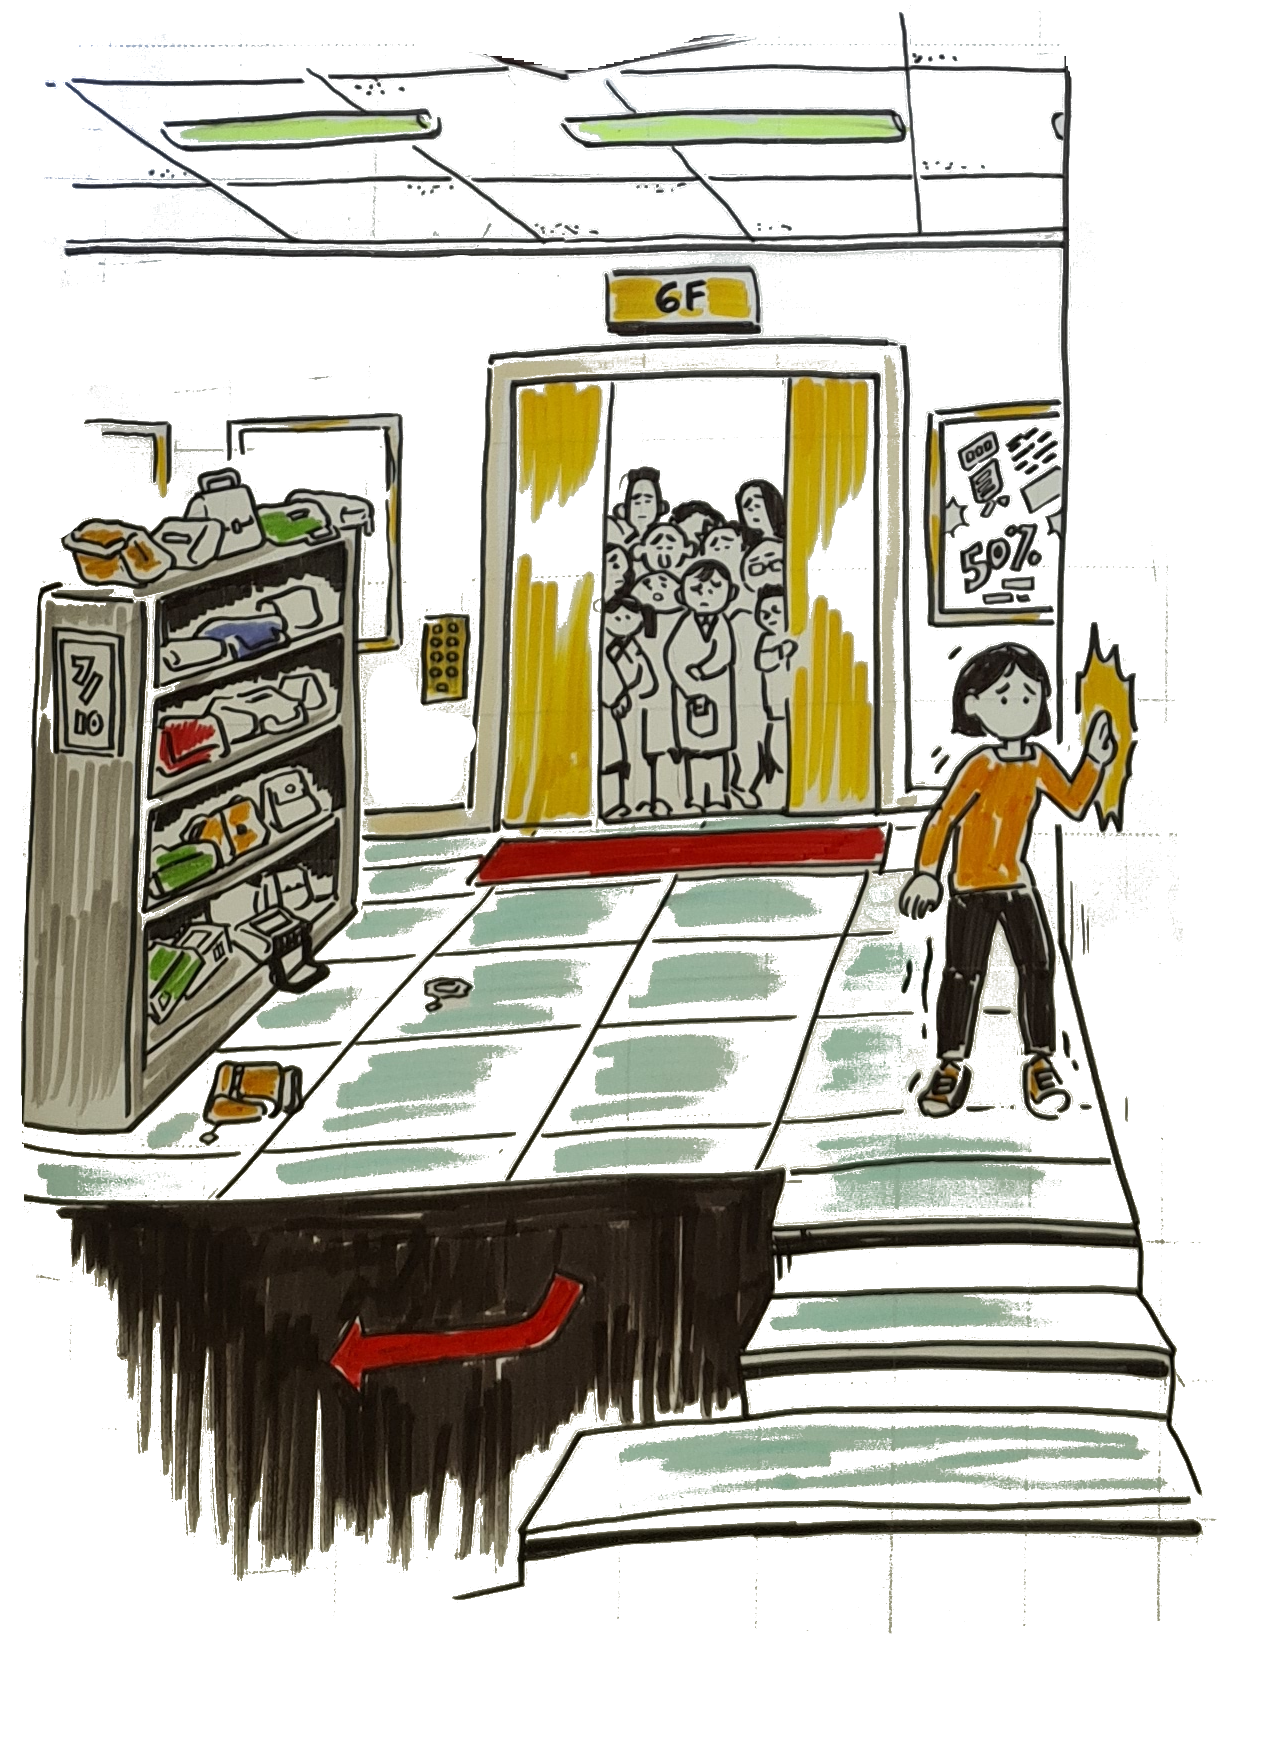
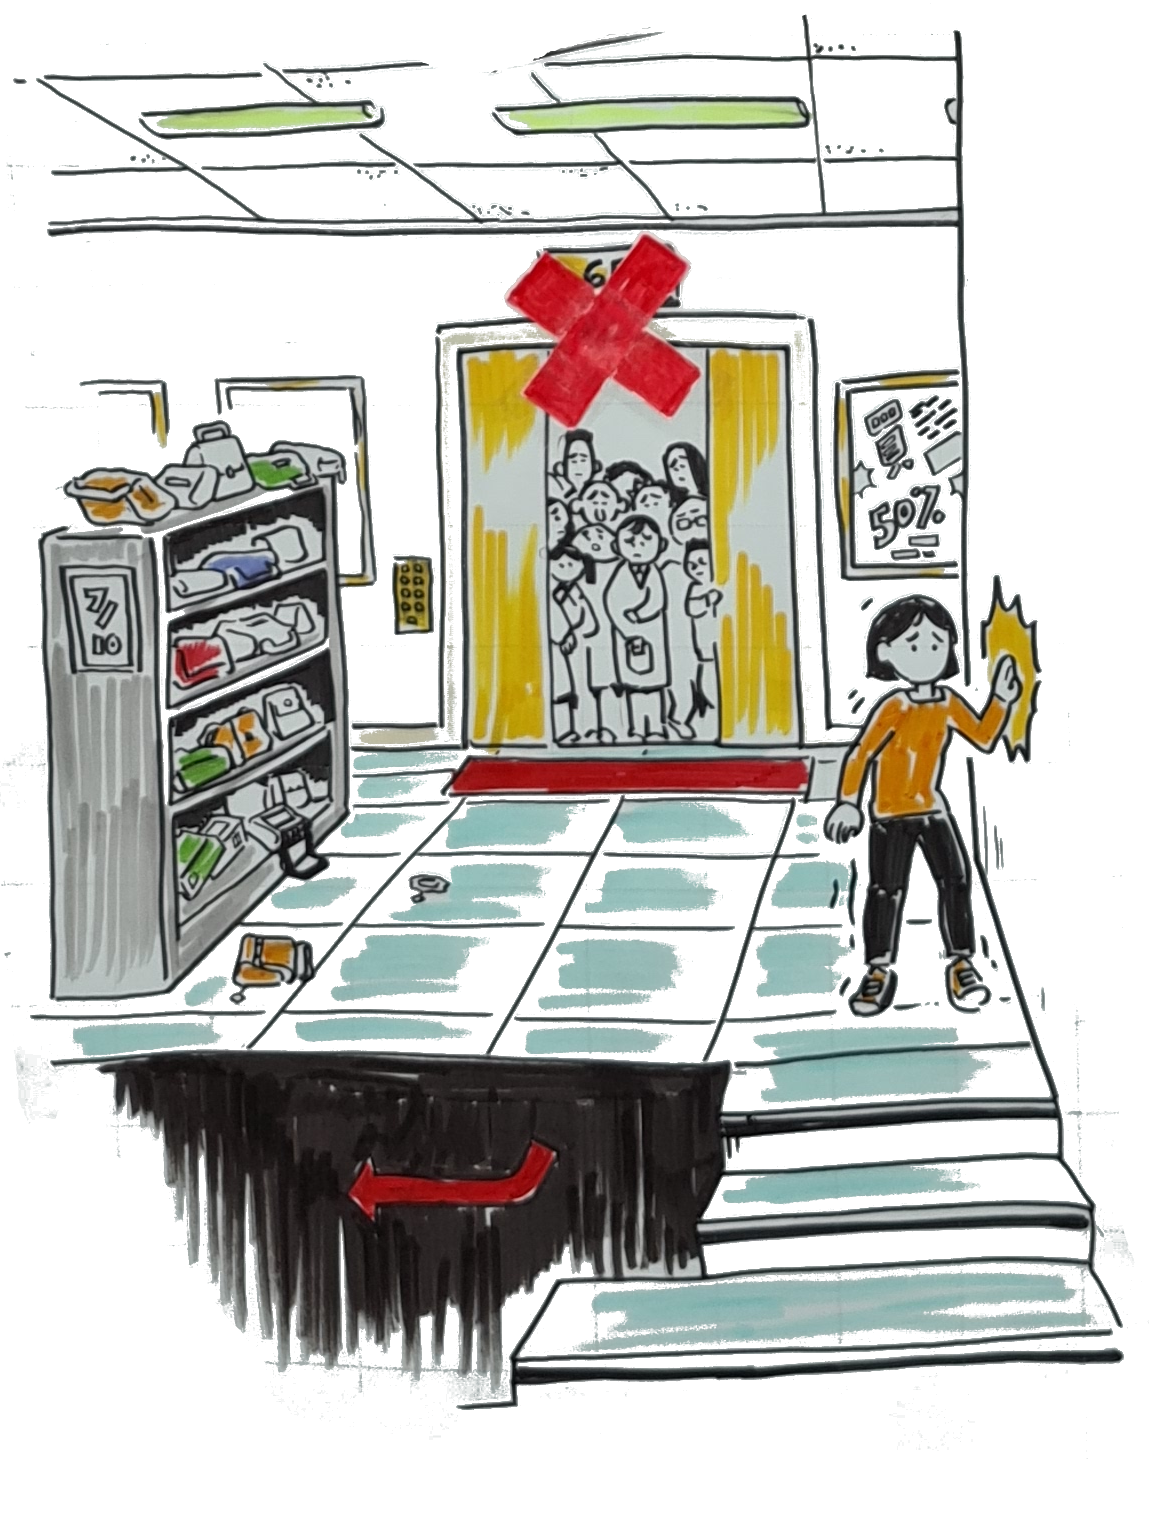
update photos and texts

diff --git a/home.html b/home.html
@@ -75,7 +75,7 @@
     top: -38px;" >
       <p class=" shadow" style="margin: 0.5em; text-align: right">ビルがくずれたり</p>
       <p class="text-center shadow" style="margin: 0.5em">木も倒れかもしれない</p>
-      <p class="shadow" style="text-align: left; margin: 0.5em">上から物が落ちてきる</p>
+      <p class="shadow" style="text-align: left; margin: 0.5em">上から物が落ちてきる。</p>
     </div>
     <img src="images/earthquake_inside.png" alt="" style="width: 100%; height: auto">
   </section>
@@ -98,10 +98,10 @@
     width: auto; text-align: center;
     bottom: 10px;" >
 
-      <p class="text-center shadow" style="margin: 0.5em">階段を歩いたほうが安全です</p>
+      <p class="text-center shadow" style="margin: 0.5em">階段を歩いたほうが安全です。</p>
     </div>
   </section>
-  <section class="dangers-section"
+  <section style="padding-bottom: 30px;" class="dangers-section"
            data-aos="fade-down"
            data-aos-offset="-200"
            data-aos-delay="500"
@@ -111,6 +111,17 @@
            data-aos-once="true"
            data-aos-anchor-placement="top-center">
     <img src="images/how_to_be_safe.png" alt="" style="width: 100%; height: auto">
+    <div style="
+    position: absolute;
+
+    display: block;  right: 0px;
+
+    left: 0;
+    width: auto; text-align: center;
+    bottom: 10px;" >
+
+      <p class="text-center shadow" style="margin: 0.5em">広い場所見つけていた方がいいです。</p>
+    </div>
   </section>
   <script src="https://unpkg.com/aos@next/dist/aos.js"></script>
   <script>
